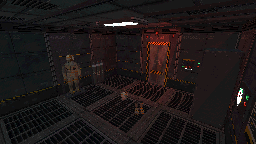
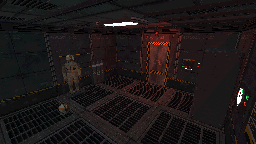
Damaged rooms: fire only, creatures stay in Quarantine

Changed region(s): [[0.2188, 0.7222, 0.2812, 0.8056], [0.5312, 0.6944, 0.5625, 0.8056], [0.4688, 0.6389, 0.5, 0.6944]]

diff --git a/areas.js b/areas.js
@@ -448,7 +448,7 @@
   /* Pre-rendered room images (made from the Kraken Code PSX Sci-Fi
      packs, 256x144), loaded once and reused. */
   const SCENE_IMG = {};
-  const SCENE_V = "3";                 // bump when the rendered images change
+  const SCENE_V = "4";                 // bump when the rendered images change
   function sceneImage(src) {
     if (!SCENE_IMG[src] && typeof Image === "function") {
       const img = new Image();
@@ -495,75 +495,82 @@
     };
   }
 
-  /* ---------- QUARANTINE (CAM 23): the warp incursion ----------
-     Drawn over the rendered room, back to front:
-       portal   a burning warp portal on the back wall
-                (assets/aft_cargo/q_portal.png, 24 frames of 56x56)
-       ritual   a blood circle on the floor, already in perspective
-                (assets/aft_cargo/q_ritual.png, same size as the room)
-       spawns   three warp creatures that crawl out of the portal and
-                prowl the room (assets/aft_cargo/mon_demon.png and
-                mon_blood.png: rows idle, walk, attack, death; 48x28 frames)
-     Creatures live in room coordinates (metres, floor plane) and are
-     projected with the same camera the room was rendered with, so they
-     shrink with distance and sort front to back. Tune SPAWNS, BOUNDS and
-     PORTAL below. */
-  const QCAM = { eye: [2.3, 2.5, 0.7], target: [-1.1, 0.8, -3.8], fov: 66, W: 256, H: 144 };
-  function qProject(x, y, z) {
-    const e = QCAM.eye, t = QCAM.target;
+  /* ---------- WARP INCURSIONS on the damaged room cameras ----------
+     Damaged compartments show fire. Contaminated ones (Quarantine) also
+     get the warp incursion: portal, ritual circle and creatures. Leave
+     portal / ritual / spawns out of a room's settings for fire only.
+     Drawn over the rendered room:
+       fire     flames on the floor (assets/fx/fire.png, 64 frames of
+                25x51, Free Pixel Effects Pack, public domain)
+       portal   a burning warp portal on a wall (assets/aft_cargo/q_portal.png,
+                24 frames of 56x56)
+       ritual   a blood circle on the floor, pre-warped to that camera
+       spawns   warp creatures that crawl out of the portal and prowl
+                (assets/aft_cargo/mon_demon.png, mon_blood.png: rows idle,
+                walk, attack, death; 48x28 frames)
+     Creatures and flames live in room coordinates (metres on the floor)
+     and are projected with the camera the room was rendered with, so
+     they shrink with distance and sort front to back.
+     Each room's settings are in INCURSIONS below. */
+  const CAM_STD = { eye: [2.3, 2.5, 0.7], target: [-1.1, 0.8, -3.8], fov: 66 };
+  const CAM_HOLD = { eye: [4.4, 2.7, 1.8], target: [-1.2, 0.6, -6], fov: 66 };
+  const INCURSIONS = {
+    quarantine: { cam: CAM_STD, ritual: "aft_cargo/q_ritual.png", glow: [126, 100],
+      portal: { x: 152, y: 57.5, w: 29, h: 31 }, door: { x: -0.3, z: -4.6 }, circle: { x: -0.25, z: -2.55, r: 0.75 },
+      bounds: { x0: -1.5, x1: 1.3, z0: -4.3, z1: -1.4 }, spawns: ["blood", "demon", "blood"],
+      fire: [[-1.3, -1.6, 0.7], [1.0, -3.6, 0.6]] },
+    // damaged rooms: fire only, no portal or creatures
+    bunksB: { cam: CAM_STD, fire: [[-1.0, -4.3, 0.8], [1.2, -1.4, 0.6], [-1.3, -1.2, 0.5]] },
+    airlock4: { cam: CAM_STD, fire: [[-1.5, -4.3, 0.7], [1.4, -3.0, 0.6]] },
+    hold2: { cam: CAM_HOLD, fire: [[0.9, -3.3, 0.9], [-0.3, -6.4, 1.0], [3.7, -7.6, 0.7]] }
+  };
+
+  function makeProjector(cam) {
+    const e = cam.eye, t = cam.target, W = 256, H = 144;
     let f = [t[0] - e[0], t[1] - e[1], t[2] - e[2]];
     const fl = Math.hypot(f[0], f[1], f[2]); f = [f[0] / fl, f[1] / fl, f[2] / fl];
-    let r = [f[1] * 0 - f[2] * 1, f[2] * 0 - f[0] * 0, f[0] * 1 - f[1] * 0];          // f x up
+    let r = [-f[2], 0, f[0]];                                  // f x up
     const rl = Math.hypot(r[0], r[1], r[2]); r = [r[0] / rl, r[1] / rl, r[2] / rl];
     const u = [r[1] * f[2] - r[2] * f[1], r[2] * f[0] - r[0] * f[2], r[0] * f[1] - r[1] * f[0]];
-    const d = [x - e[0], y - e[1], z - e[2]];
-    const depth = d[0] * f[0] + d[1] * f[1] + d[2] * f[2];
-    const foc = (QCAM.H / 2) / Math.tan(QCAM.fov * Math.PI / 360);
-    return { x: QCAM.W / 2 + foc * (d[0] * r[0] + d[1] * r[1] + d[2] * r[2]) / depth,
-             y: QCAM.H / 2 - foc * (d[0] * u[0] + d[1] * u[1] + d[2] * u[2]) / depth, depth: depth };
+    const foc = (H / 2) / Math.tan(cam.fov * Math.PI / 360);
+    return function (x, y, z) {
+      const d = [x - e[0], y - e[1], z - e[2]];
+      const depth = d[0] * f[0] + d[1] * f[1] + d[2] * f[2];
+      return { x: W / 2 + foc * (d[0] * r[0] + d[1] * r[1] + d[2] * r[2]) / depth,
+               y: H / 2 - foc * (d[0] * u[0] + d[1] * u[1] + d[2] * u[2]) / depth, depth: depth };
+    };
   }
 
-  function quarantineFx() {
-    const C = "assets/aft_cargo/";
-    const portalImg = sceneImage(C + "q_portal.png");
-    const ritualImg = sceneImage(C + "q_ritual.png");
-    const sheets = { demon: sceneImage(C + "mon_demon.png"), blood: sceneImage(C + "mon_blood.png") };
-    const PORTAL = { x: 152, y: 57, w: 30, h: 33, frames: 24, size: 56, fps: 10 };
-    const DOOR = { x: -0.3, z: -4.6 };                        // floor spot under the portal
-    const BOUNDS = { x0: -1.5, x1: 1.3, z0: -4.3, z1: -1.4 };
-    const FW = 48, FH = 28, FEET = 26, CX = 23;               // frame size, feet row, body centre
+  function incursionFx(cfg) {
+    const A = "assets/";
+    const proj = makeProjector(cfg.cam);
+    const portalImg = sceneImage(A + "aft_cargo/q_portal.png");
+    const ritualImg = cfg.ritual ? sceneImage(A + cfg.ritual) : null;
+    const fireImg = sceneImage(A + "fx/fire.png");
+    const sheets = { demon: sceneImage(A + "aft_cargo/mon_demon.png"), blood: sceneImage(A + "aft_cargo/mon_blood.png") };
+    const P = cfg.portal, PF = { frames: 24, size: 56, fps: 10 };
+    const FIRE = { w: 25, h: 51, cols: 16, frames: 64, fps: 24, base: 49, cx: 12.5 };
+    const FW = 48, FH = 28, FEET = 26, CX = 23;               // creature frame, feet row, body centre
     const ROWS = { idle: [0, 6], walk: [1, 8], attack: [2, 7], death: [3, 4] };
     const HEIGHT = 0.9;                                       // creature height in metres (sets on screen size)
-    const SPAWNS = [
-      { kind: "blood", delay: 0.5 },
-      { kind: "demon", delay: 5 },
-      { kind: "blood", delay: 10 }
-    ].map(function (s, i) {
-      return { kind: s.kind, delay: s.delay, x: DOOR.x, z: DOOR.z, tx: DOOR.x, tz: DOOR.z,
-               state: "wait", until: s.delay, face: 1, seed: i * 17.3, anim: 0 };
+    const mons = (cfg.spawns || []).map(function (kind, i) {
+      return { kind: kind, x: cfg.door.x, z: cfg.door.z, tx: cfg.door.x, tz: cfg.door.z,
+               state: "wait", until: 0.5 + i * 4.5, face: 1, seed: i * 17.3 + cfg.door.x };
     });
     let last = 0;
 
     function pick(m, t) {
-      // new spot on the floor; now and then go and stand in the circle
-      const k = Math.sin(t * 3.1 + m.seed) * 0.5 + 0.5;
-      // each creature has its own spot on the circle's edge, so they gather around it
-      if (k > 0.7) { m.tx = -0.25 + Math.cos(m.seed) * 0.75; m.tz = -2.55 + Math.sin(m.seed) * 0.6; return; }
-      m.tx = BOUNDS.x0 + (BOUNDS.x1 - BOUNDS.x0) * (Math.sin(t * 1.7 + m.seed) * 0.5 + 0.5);
-      m.tz = BOUNDS.z0 + (BOUNDS.z1 - BOUNDS.z0) * (Math.sin(t * 2.3 + m.seed * 1.9) * 0.5 + 0.5);
+      // now and then go and stand at its own spot on the circle's edge
+      const k = Math.sin(t * 3.1 + m.seed) * 0.5 + 0.5, B = cfg.bounds, c = cfg.circle;
+      if (k > 0.7) { m.tx = c.x + Math.cos(m.seed) * c.r; m.tz = c.z + Math.sin(m.seed) * c.r * 0.8; return; }
+      m.tx = B.x0 + (B.x1 - B.x0) * (Math.sin(t * 1.7 + m.seed) * 0.5 + 0.5);
+      m.tz = B.z0 + (B.z1 - B.z0) * (Math.sin(t * 2.3 + m.seed * 1.9) * 0.5 + 0.5);
     }
 
     function step(m, t, dt) {
-      if (m.state === "wait") {
-        if (t >= m.until) { m.state = "emerge"; m.until = t + 1.2; }
-        return;
-      }
+      if (m.state === "wait") { if (t >= m.until) { m.state = "emerge"; m.until = t + 1.2; } return; }
       if (m.state === "emerge") { if (t >= m.until) { m.state = "idle"; m.until = t + 0.6; } return; }
-      if (m.state === "idle" || m.state === "attack") {
-        if (t >= m.until) { pick(m, t); m.state = "walk"; }
-        return;
-      }
-      // walking
+      if (m.state === "idle" || m.state === "attack") { if (t >= m.until) { pick(m, t); m.state = "walk"; } return; }
       const dx = m.tx - m.x, dz = m.tz - m.z, dist = Math.hypot(dx, dz), sp = 0.55 * dt;
       if (dist <= sp) {
         m.x = m.tx; m.z = m.tz;
@@ -573,49 +580,62 @@
         return;
       }
       m.x += dx / dist * sp; m.z += dz / dist * sp;
-      const a = qProject(m.x, 0, m.z), b = qProject(m.tx, 0, m.tz);
+      const a = proj(m.x, 0, m.z), b = proj(m.tx, 0, m.tz);
       if (Math.abs(b.x - a.x) > 0.5) { m.face = b.x > a.x ? 1 : -1; }
     }
 
     function drawMon(ctx, m, t) {
       const img = sheets[m.kind];
       if (!img.complete || !img.naturalWidth || m.state === "wait") { return; }
-      const foot = qProject(m.x, 0, m.z), head = qProject(m.x, HEIGHT, m.z);
-      const scale = Math.max(0.4, (foot.y - head.y) / 17);    // ~17px of body in each frame
+      const foot = proj(m.x, 0, m.z), head = proj(m.x, HEIGHT, m.z);
+      const scale = Math.max(0.35, (foot.y - head.y) / 17);
       const row = ROWS[m.state === "walk" ? "walk" : m.state === "attack" ? "attack" : "idle"];
       const n = Math.floor(t * (m.state === "walk" ? 10 : 7) + m.seed) % row[1];
-      const w = FW * scale, h = FH * scale;
       ctx.save();
       if (m.state === "emerge") { ctx.globalAlpha = Math.max(0, 1 - (m.until - t) / 1.2); }
-      // soft shadow on the floor
       ctx.fillStyle = "rgba(0,0,0,0.35)";
       ctx.beginPath(); ctx.ellipse(foot.x, foot.y, 6 * scale, 1.8 * scale, 0, 0, Math.PI * 2); ctx.fill();
       ctx.translate(Math.round(foot.x), Math.round(foot.y));
       ctx.scale(m.face, 1);
-      ctx.drawImage(img, n * FW, row[0] * FH, FW, FH, -CX * scale, -FEET * scale, w, h);
+      ctx.drawImage(img, n * FW, row[0] * FH, FW, FH, -CX * scale, -FEET * scale, FW * scale, FH * scale);
       ctx.restore();
+    }
+
+    function drawFire(ctx, f, t) {
+      const foot = proj(f[0], 0, f[1]), top = proj(f[0], f[2], f[1]);
+      const scale = Math.max(0.4, (foot.y - top.y) / 22);     // flame height in metres sets its size
+      glowAt(ctx, foot.x, foot.y - 6 * scale, 22 * scale, "rgba(255,120,30," + (0.35 + 0.1 * Math.sin(t * 9 + f[0])).toFixed(3) + ")");
+      if (!fireImg.complete || !fireImg.naturalWidth) { return; }
+      const n = (Math.floor(t * FIRE.fps) + Math.round(f[0] * 13)) % FIRE.frames;
+      ctx.drawImage(fireImg, (n % FIRE.cols) * FIRE.w, Math.floor(n / FIRE.cols) * FIRE.h, FIRE.w, FIRE.h,
+                    foot.x - FIRE.cx * scale, foot.y - FIRE.base * scale, FIRE.w * scale, FIRE.h * scale);
     }
 
     return function (ctx, t) {
       const dt = Math.min(0.1, Math.max(0, t - last)); last = t;
-      // portal on the back wall, with its light spilling into the room
-      glowAt(ctx, PORTAL.x, PORTAL.y + 4, 44, "rgba(255,110,30," + (0.22 + 0.06 * Math.sin(t * 3)).toFixed(3) + ")");
-      if (portalImg.complete && portalImg.naturalWidth) {
-        const n = Math.floor(t * PORTAL.fps) % PORTAL.frames;
-        ctx.drawImage(portalImg, n * PORTAL.size, 0, PORTAL.size, PORTAL.size,
-                      PORTAL.x - PORTAL.w / 2, PORTAL.y - PORTAL.h / 2, PORTAL.w, PORTAL.h);
+      // the portal and its light
+      if (P) { glowAt(ctx, P.x, P.y + 4, P.h * 1.4, "rgba(255,110,30," + (0.22 + 0.06 * Math.sin(t * 3)).toFixed(3) + ")"); }
+      if (P && portalImg.complete && portalImg.naturalWidth) {
+        const n = Math.floor(t * PF.fps) % PF.frames;
+        ctx.drawImage(portalImg, n * PF.size, 0, PF.size, PF.size, P.x - P.w / 2, P.y - P.h / 2, P.w, P.h);
       }
       // blood circle on the floor, pulsing
-      if (ritualImg.complete && ritualImg.naturalWidth) {
-        ctx.save();
-        ctx.globalAlpha = 0.7 + 0.3 * Math.sin(t * 2.2);
-        ctx.drawImage(ritualImg, 0, 0, 256, 144);
-        ctx.restore();
-        glowAt(ctx, 126, 100, 34, "rgba(255,30,20," + (0.12 + 0.08 * Math.sin(t * 2.2)).toFixed(3) + ")");
+      if (ritualImg && ritualImg.complete && ritualImg.naturalWidth) {
+        ctx.save(); ctx.globalAlpha = 0.7 + 0.3 * Math.sin(t * 2.2); ctx.drawImage(ritualImg, 0, 0, 256, 144); ctx.restore();
+        glowAt(ctx, cfg.glow[0], cfg.glow[1], 34, "rgba(255,30,20," + (0.12 + 0.08 * Math.sin(t * 2.2)).toFixed(3) + ")");
       }
-      SPAWNS.forEach(function (m) { step(m, t, dt); });
-      SPAWNS.slice().sort(function (a, b) { return a.z - b.z; }).forEach(function (m) { drawMon(ctx, m, t); });
+      mons.forEach(function (m) { step(m, t, dt); });
+      // flames and creatures, far to near
+      const items = cfg.fire.map(function (f) { return { z: f[1], draw: function () { drawFire(ctx, f, t); } }; })
+        .concat(mons.map(function (m) { return { z: m.z, draw: function () { drawMon(ctx, m, t); } }; }));
+      items.sort(function (a, b) { return a.z - b.z; }).forEach(function (it) { it.draw(); });
     };
+  }
+
+  // run several fx on one camera
+  function both() {
+    const list = Array.prototype.slice.call(arguments);
+    return function (ctx, t) { list.forEach(function (fx) { fx(ctx, t); }); };
   }
 
   function camFeeds(cams) {
@@ -995,7 +1015,7 @@
     const D = "assets/deck4/";
     return withCam([
       { room: "BUNKS A", cam: "04", src: D + "crew_quarters.png", fx: pulse(204, 70, 36, "255,40,20", 3) },
-      { room: "BUNKS B", cam: "05", src: D + "d4_bunks_b.png", fx: pulse(155, 57, 44, "255,30,15", 6, "blink") },
+      { room: "BUNKS B", cam: "05", src: D + "d4_bunks_b.png", fx: both(pulse(155, 57, 44, "255,30,15", 6, "blink"), incursionFx(INCURSIONS.bunksB)) },
       { room: "SANITATION", cam: "06", src: D + "d4_sanitation.png" },
       { room: "MEDICAE BAY", cam: "07", src: D + "d4_medicae.png", fx: pulse(142, 60, 10, "90,255,140", 9, "blink") },
       { room: "OFFICER QTRS", cam: "08", note: "LOCKED FROM INSIDE" },
@@ -1007,7 +1027,7 @@
       { room: "SHRINE", cam: "13", src: D + "d4_shrine.png", fx: function (ctx, t) {
           const f = 0.22 + 0.08 * Math.sin(t * 11) + 0.06 * Math.sin(t * 23);       // candle flicker
           glowAt(ctx, 157, 60, 30, "rgba(255,170,70," + f.toFixed(3) + ")"); } },
-      { room: "AIRLOCK 4", cam: "14", src: D + "d4_airlock.png", fx: pulse(158, 37, 46, "255,40,20", 5, "beacon") }
+      { room: "AIRLOCK 4", cam: "14", src: D + "d4_airlock.png", fx: both(pulse(158, 37, 46, "255,40,20", 5, "beacon"), incursionFx(INCURSIONS.airlock4)) }
     ], {
       id: "deck4",
       title: "CREW QUARTERS",
@@ -1042,8 +1062,8 @@
     const C = "assets/aft_cargo/";
     return withCam([
       { room: "HOLD 1", cam: "21", src: C + "c_hold1.png" },
-      { room: "HOLD 2", cam: "22", src: C + "cargo_hold.png", fx: pulse(158, 50, 40, "255,150,30", 5, "beacon") },
-      { room: "QUARANTINE", cam: "23", src: C + "c_quarantine.png", fx: quarantineFx() },
+      { room: "HOLD 2", cam: "22", src: C + "cargo_hold.png", fx: both(pulse(158, 50, 40, "255,150,30", 5, "beacon"), incursionFx(INCURSIONS.hold2)) },
+      { room: "QUARANTINE", cam: "23", src: C + "c_quarantine.png", fx: incursionFx(INCURSIONS.quarantine) },
       { room: "MANIFEST OFFICE", cam: "24", src: C + "c_manifest.png", fx: pulse(124, 70, 8, "120,255,160", 4) },
       { room: "CARGO LIFT", cam: "25", src: C + "c_lift.png", fx: pulse(132, 35, 40, "255,150,30", 5, "beacon") },
       { room: "SERVITOR BAY", cam: "26", note: "SERVITOR 3 KAPPA: NO RESPONSE" },

diff --git a/index.html b/index.html
@@ -20,7 +20,7 @@
   - resume.html : full resume PDF viewer
   - legacy-xp/  : backup of the previous Windows XP-style site
 
-  CACHE NOTE: the ?v=81 on the CSS/JS links below forces browsers to
+  CACHE NOTE: the ?v=83 on the CSS/JS links below forces browsers to
   load fresh copies. Bump the number whenever you change those files.
 -->
 <html lang="en">
@@ -32,7 +32,7 @@
   <link rel="icon" href="images/robot-icon.svg" type="image/svg+xml" />
   <link rel="icon" href="images/robot-icon.png" type="image/png" sizes="64x64" />
   <link rel="apple-touch-icon" href="images/apple-touch-icon.png" />
-  <link rel="stylesheet" href="style.css?v=81" />
+  <link rel="stylesheet" href="style.css?v=83" />
 </head>
 <body>
   <div id="crt">
@@ -90,15 +90,15 @@
     </p>
   </noscript>
 
-  <script src="content.js?v=81"></script>
-  <script src="wireframe.js?v=81"></script>
-  <script src="ship.js?v=81"></script>
-  <script src="areas.js?v=81"></script>
-  <script src="repair.js?v=81"></script>
-  <script src="cube.js?v=81"></script>
-  <script src="hangman.js?v=81"></script>
-  <script src="github.js?v=81"></script>
-  <script src="script.js?v=81"></script>
-  <script src="eggs.js?v=81"></script>
+  <script src="content.js?v=83"></script>
+  <script src="wireframe.js?v=83"></script>
+  <script src="ship.js?v=83"></script>
+  <script src="areas.js?v=83"></script>
+  <script src="repair.js?v=83"></script>
+  <script src="cube.js?v=83"></script>
+  <script src="hangman.js?v=83"></script>
+  <script src="github.js?v=83"></script>
+  <script src="script.js?v=83"></script>
+  <script src="eggs.js?v=83"></script>
 </body>
 </html>
